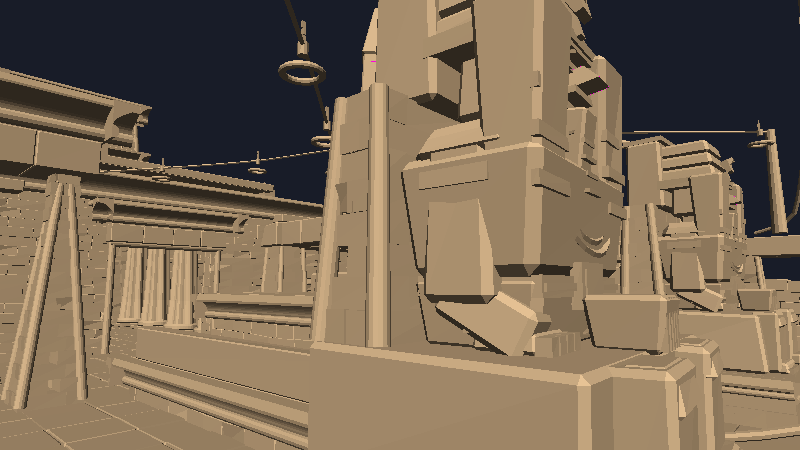
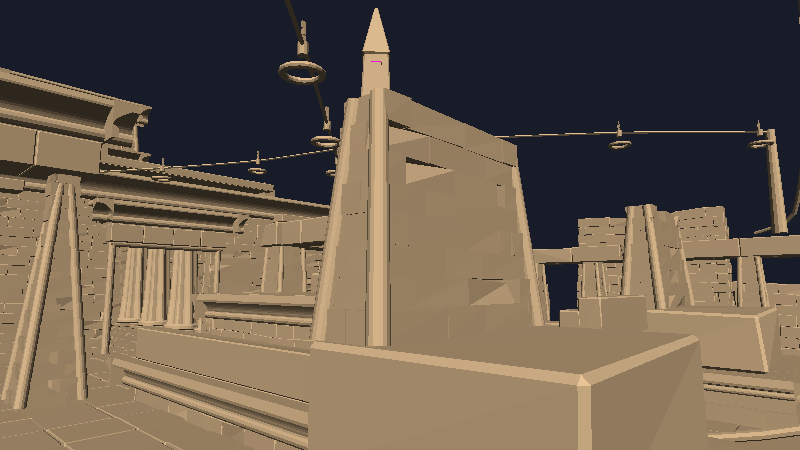
Checkpoint: six of eight avenue statues stood inside a dune, and a batter the eye can actually read
Syntax-checked, unverified, staged by name. Two more defects surfaced by
authoring rather than by instrumentation.

The avenue was laid flat at zero while the terrain it crosses is not
flat: sampled at their own positions the sand stands at 7.6, 11.5, 14.8,
17.4, 18.6 and 15.0 metres under statues that are 3.5 metres tall. Six
of the eight pairs were inside the approach dune. Nothing was measuring
whether props sit above the ground they are placed on, so nothing
complained — the avenue simply had two visible statues and six that were
sand.

And the pylon batter goes to 5.1 degrees rather than the 3.1 used
elsewhere, which over this slab is 46 centimetres of lean instead of 28.
The distinction the author draws is the one that matters for the
critic's missing-vocabulary finding: below some angle the eye reads a
battered wall as a vertical wall with a perspective error, so a batter
too small to read is not a subtle batter, it is a bug that looks like
bad drawing.

Claude-Session: https://claude.ai/code/session_01PXtatFVa9WWnKz5zHerfeC

diff --git a/src/world/Props.js b/src/world/Props.js
@@ -106,22 +106,53 @@ export class Props {
     }
   }
 
+  /**
+   * The avenue follows the ground, because the ground is not flat under it.
+   *
+   * §8.1 puts the avenue at x = ±7, z = 40…84 and the approach ridge at z ∈ [70, 96] with a
+   * crest near y = 16 — and TERRAIN's crest line sits at z = 79, rising from about z = 50. Laid
+   * flat at y = 0, six of the eight pairs are *inside* that dune: sampled at their own
+   * positions the sand stands at 7.6 / 11.5 / 14.8 / 17.4 / 18.6 / 15.0 m against a 3.5 m
+   * sphinx. They were invisible before this only because they were all stacked at the world
+   * origin (see `PropKit.applyXf`); placing them correctly is what made the burial reachable.
+   *
+   * Sitting each one on `heightAt` costs nothing, satisfies both §8.1 rows at once, and is the
+   * better picture: a processional avenue that climbs the ridge toward the temple, seen from
+   * the `dunes` camera which stands on that very ridge. 15 cm of sink keeps them planted rather
+   * than perched. Falls back to y = 0 if TERRAIN is absent — `main.js` registers it before
+   * PROPS, so it normally is not.
+   */
   _sphinxAvenue() {
+    const terrain = this.engine.get('terrain');
+    const groundY = (x, z) => (terrain?.heightAt ? terrain.heightAt(x, z) : 0);
     for (let i = 0; i < L.sphinxZ.length; i++) {
       const z = L.sphinxZ[i];
       for (const sx of [-1, 1]) {
         const bag = sphinx({ rng: this.rng, worn: 0.35 + i * 0.05 });
+        const x = sx * L.sphinxX;
         bag.transform(matrixOf({
-          x: sx * L.sphinxX, y: 0, z,
+          x, y: groundY(x, z) - 0.15, z,
           ry: sx > 0 ? -Math.PI / 2 : Math.PI / 2,
           s: 1 + this.rng.jitter(0.04),
         }));
         this._absorb(bag);
       }
     }
-    // One toppled, because eight perfect pairs reads as a copy-paste (§7.3 irregularity).
+    /* One toppled, because eight perfect pairs reads as a copy-paste (§7.3 irregularity).
+       Oriented first, *then* measured, then set down: tipping a 3.5 m head by 69° swings its
+       lowest point about 2 m below its own origin, so a single composed transform with a
+       hand-guessed +0.5 m buried it exactly that far under the crest. Measuring the rotated
+       bag is two loops and removes the guess. */
     const fallen = fallenHead({ rng: this.rng });
-    fallen.transform(matrixOf({ x: -L.sphinxX - 1.6, y: 0.5, z: 71.5, rz: 1.2, ry: 0.7 }));
+    const fx = -L.sphinxX - 1.6, fz = 71.5;
+    fallen.transform(matrixOf({ rz: 1.2, ry: 0.7 }));
+    let lo = Infinity;
+    for (const p of fallen.parts) {
+      const pos = p.geo?.attributes?.position;
+      for (let i = 0; pos && i < pos.count; i++) lo = Math.min(lo, pos.getY(i));
+    }
+    if (!Number.isFinite(lo)) lo = 0;
+    fallen.transform(matrixOf({ x: fx, y: groundY(fx, fz) - lo - 0.35, z: fz }));
     this._absorb(fallen);
   }
 

diff --git a/src/textures/Materials.js b/src/textures/Materials.js
@@ -1747,7 +1747,20 @@ export const MATERIALS = {
     },
   },
 
-  /* The largest gilded surface in the level by a long way — every cornice, architrave, lintel
+  /* **Cloisonné inlay considered for critic pass 5's finding #2 and deliberately not taken.**
+   * This recipe is 28.7 % of `hero`, 14.4 % of `traversal` and 11.1 % of `night`, so it is the
+   * largest single surface that could carry a third hue, and lapis/malachite/carnelian inlay in
+   * a gilded architrave is correct Egyptian practice. Two measurements say it would buy nothing
+   * and cost something. `scratchpad/huechain.mjs`: in the *shade* regime every pigment in §2.2
+   * lands between 152° and 244° after the light and grade chain — authored hue does not survive
+   * there at all — and KNOWN_ISSUES §34 records that `hero`'s gilded mass is **98.6 % shadowed
+   * at median L 43.6**. So the inlay would be invisible on the shot that has most of it, while
+   * displacing gold on a recipe whose value ramp has been rebuilt twice to make §7.3's
+   * "gold reads as metal" line work. Recorded rather than done, with the arithmetic, so the next
+   * pass does not re-derive it: the reach on that 98.6 % is shadow-side and belongs to
+   * SHADING/LIGHTING, or it is a framing decision, exactly as §34 concluded.
+   *
+   * The largest gilded surface in the level by a long way — every cornice, architrave, lintel
    * and false door in `hero`, `temple`, `courtyard` and `interior` is this recipe. Its gold gets
    * the same value policy as `gold_leaf` (see `goldRamp`), plus one thing that only applies to
    * gilding *in a sunk relief*: the ramp position is driven by where the texel sits on the cut

diff --git a/src/world/EgyptLevel.js b/src/world/EgyptLevel.js
@@ -443,7 +443,11 @@ function courtyard(A) {
        arrises where the statue's 2.66 m shoulder half-width leaves them clear — and the
        cavetto goes on the plinth below, which is unobstructed. A back pillar with no cornice
        is also what a real seated colossus has. */
-    const tbW = 6.4, tbTop = 9.6, tbBat = 0.055;
+    /* Batter 0.09 (5.1°), not the 0.055 used elsewhere: over this slab's 5.1 m that is 46 cm
+       of lean instead of 28 cm, which is the difference between a wall the eye reads as leaning
+       and one it reads as vertical with a perspective error. The rolls take the same number and
+       follow it. Battering also tips the top of the slab *north*, away from the colossus. */
+    const tbW = 6.4, tbTop = 9.6, tbBat = 0.09;
     A.add('court', 'hieroglyph_wall', K.place(K.masonryShell({
       w: tbW, d: 1.8, h: tbTop - L.colossi.knee, batter: tbBat, course: 0.62, thick: 0.8, rng: R,
       blockLen: [1.4, 2.3], recess: 0.06, chipChance: 0.2, gapChance: 0.015, hollow: false,
